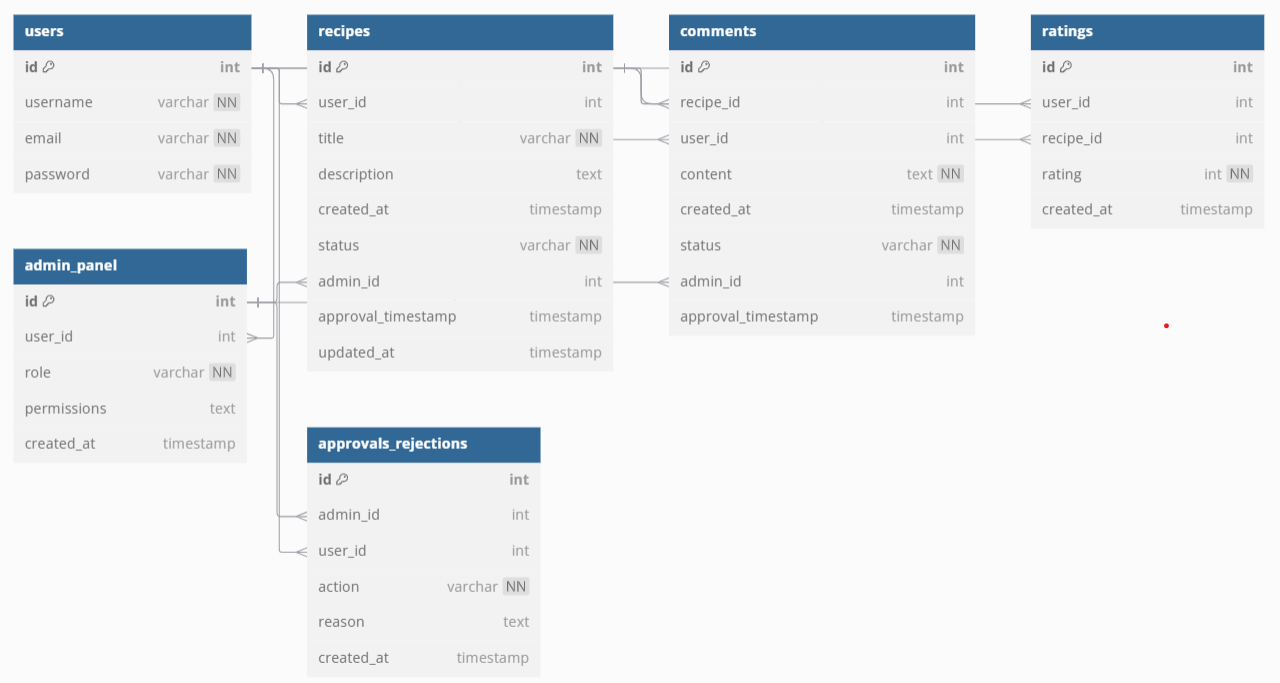
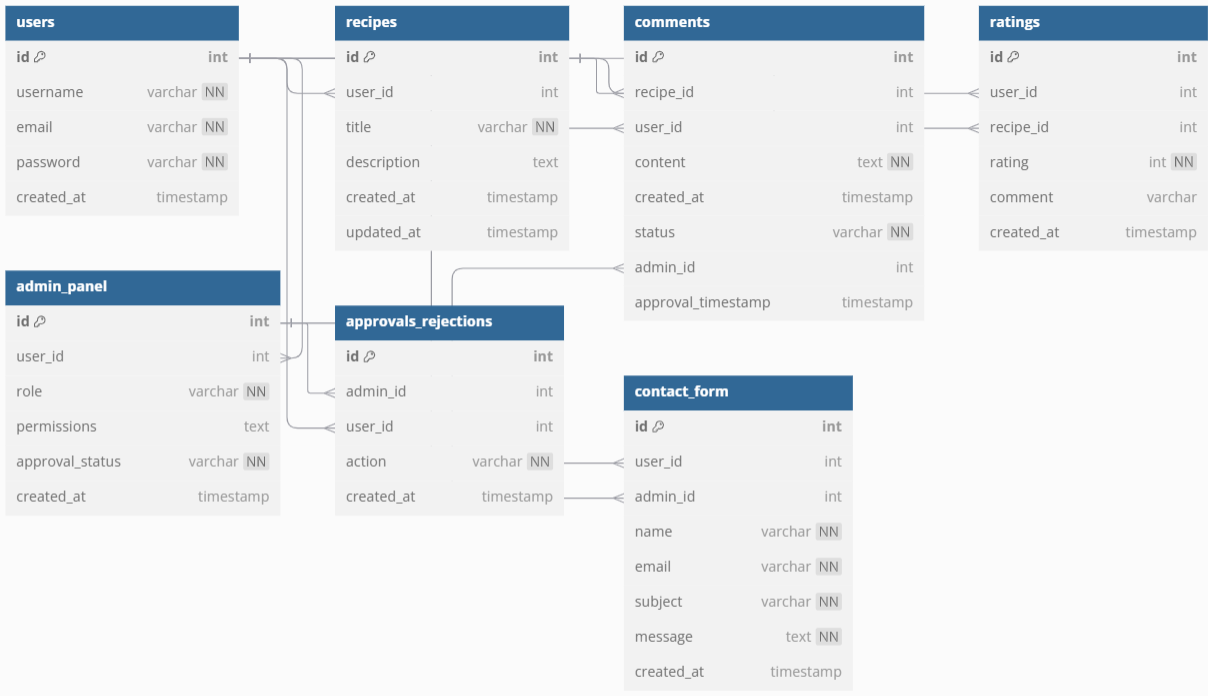
add images to README images. Update README.md

diff --git a/templates/base.html b/templates/base.html
@@ -167,7 +167,9 @@
                 text: "Do you really want to delete this recipe? This action cannot be undone.",
                 icon: "warning",
                 showCancelButton: true,
+                confirmButtonColor:'#74c37f',
                 confirmButtonText: "Yes, delete it!",
+                cancelButtonColor: '#fe4d60',
                 cancelButtonText: "Cancel",
                 reverseButtons: true
             }).then((result) => {
@@ -177,6 +179,7 @@
                         title: "Deleted!",
                         text: "Your recipe has been successfully deleted.",
                         icon: "success",
+                        confirmButtonColor:'#74c37f',
                         confirmButtonText: "OK"
                     }).then(() => {
                         this.submit(); // Submit the form programmatically

diff --git a/README.md b/README.md
@@ -107,32 +107,138 @@ Admin | receive and read Contact form.
 
 ## ERD diagram 
 <img src="readMe images\diagramma.png"><br>
-<li><strong>User:</strong> Fields: id, username, email, password, created_at<br>
-<strong>Description:</strong> Stores user information including their login credentials and registration timestamp.</li>
-<li><strong>Recipes:</strong> Fields: id, user_id, title, description, created_at, updated_at <br>
-<strong>Description:</strong> Contains details of recipes submitted by users. user_id links to the user who submitted the recipe. updated_at tracks the last modification time.</li>
-<li><strong>Comments:</strong> Fields: id, recipe_id, user_id, content, created_at, status, admin_id, approval_timestamp<br>
-<strong>Description:</strong> Holds comments made on recipes. status indicates whether a comment is pending, approved, or rejected. admin_id links to the admin who approved or rejected the comment, and approval_timestamp records the time of the action.</li>
-<li><strong>Rating:</strong> Fields: id, user_id, recipe_id, rating, comment, created_at<br>
-<strong>Description:</strong>Stores user ratings for recipes. rating is an integer between 1 and 5. Optionally, users can leave a comment along with their rating.</li>
-<li><strong>Admin Panel</strong> Fields: id, user_id, role, permissions, approval_status, created_at <br>
-<strong>Description:</strong> Manages admin roles and permissions. approval_status tracks the status of various actions (pending, approved, rejected).</li>
-<li><strong>Approvals/Rejections</strong>Fields: id, admin_id, user_id, action, reason, created_at<br>
-<strong>Description:</strong>Logs actions taken by admins regarding approvals and rejections. Includes the reason for the action and the created_at timestamp.
+<li><strong>Users</strong><br> <strong>Fields:</strong> id, username, email, password, created_at<br> <strong>Description:</strong> Stores user information including their login credentials and registration timestamp.<br> <strong>Relationships:</strong><br>
+One-to-Many: One user can submit multiple recipes.<br>
+One-to-Many: One user can post multiple comments.<br>
+One-to-Many: One user can rate multiple recipes.<br>
+One-to-One: One user can have one admin role.<br>
+One-to-Many: One user can submit multiple contact form entries.<br>
+One-to-Many: One user can have multiple actions taken by admins. </li><br>
+<li><strong>Recipes:</strong> <br> <strong>Fields:</strong> id, user_id, title, description, created_at, updated_at<br><strong>Description:</strong> Contains details of recipes submitted by users. user_id links to the user who submitted the recipe. updated_at tracks the last modification time.<br><strong>Relationships:</strong><br>
+Many-to-One: Many recipes can be submitted by one user.
+One-to-Many: One recipe can have multiple comments.<br>
+One-to-Many: One recipe can have multiple ratings. </li><br>
+<li><strong>Comments</strong><br> <strong>Fields:</strong> id, recipe_id, user_id, content, created_at, status, admin_id, approval_timestamp<br> <strong>Description:</strong> Holds comments made on recipes. status indicates whether a comment is pending, approved, or rejected. admin_id links to the admin who approved or rejected the comment, and approval_timestamp records the time of the action.<br> <strong>Relationships:</strong><br>
+Many-to-One: Many comments can be made by one user.<br>
+Many-to-One: Many comments can be made on one recipe.<br>
+Many-to-One: Many comments can be approved or rejected by one admin.</li><br>
+<li><strong>Ratings</strong><br> <strong>Fields:</strong> id, user_id, recipe_id, rating, comment, created_at<br> <strong>Description:</strong> Stores user ratings for recipes. rating is an integer between 1 and 5. Optionally, users can leave a comment along with their rating.<br> <strong>Relationships:</strong><br>
+Many-to-One: Many ratings can be given by one user.<br>
+Many-to-One: Many ratings can be given to one recipe. </li><br>
+<li><strong>Admin Panel</strong><br> <strong>Fields:</strong> id, user_id, role, permissions, approval_status, created_at<br> <strong>Description:</strong> Manages admin roles and permissions. approval_status tracks the status of various actions (pending, approved, rejected).<br> <strong>Relationships:</strong><br>
+One-to-One: One admin role can be assigned to one user.<br>
+One-to-Many: One admin can approve or reject multiple comments.<br>
+One-to-Many: One admin can handle multiple contact form entries.<br>
+One-to-Many: One admin can perform multiple approvals or rejections. </li><br>
+<li><strong>Approvals/Rejections</strong><br> <strong>Fields:</strong> id, admin_id, user_id, action, created_at<br> <strong>Description:</strong> Logs actions taken by admins regarding approvals and rejections and the created_at timestamp. <br> <strong>Relationships:</strong><br> Many-to-One: One admin can perform multiple approvals or rejections.<br>
+Many-to-One: Many actions can be taken for one user.</li><br>
+<li><strong>Contact Form</strong><br> <strong>Fields:</strong> id, user_id, admin_id, name, email, subject, message, created_at<br> <strong>Description:</strong> Stores information submitted through the contact form. Includes the user's ID, admin's ID handling the inquiry, user's name, email address, subject of the message, the message content, and the timestamp when the form was submitted.<br><strong>Relationships:</strong><br> 
+Many-to-One: Many contact form entries can be handled by one admin.<br>
+Many-to-One: Many contact form entries can be submitted by one user.</li><br>
 
 ## Testing
 ### Testing Using Validators
 Upon completion of the writing process, developer used
-[W3C MarkUp Validation Service](https://validator.w3.org/), and [PEP8 online](http://pep8online.com/) to check the validity of the code. Code passed the tests with some errors that cannot be fixed. For example, too long lines that cannot be shortened or split in two.
+[W3C MarkUp Validation Service](https://validator.w3.org/), <img src="readMe images\validator.w3.png">
+and [PEP8 online](http://pep8online.com/) to check the validity of the code. Code passed the tests with some errors that cannot be fixed. For example, too long lines that cannot be shortened or split in two.
 
 Website was also tested using [Lighhouse](https://developers.google.com/web/tools/lighthouse). The following reports were generated on home and products pages:
-![lighthouse-report](staticfiles\images\lighthouse.png)
+<img src="readMe images/lighthouse.png">
+<img src="readMe images/addrecipe.png">
 
-![lighthouse-report](static\images\addrecipe.png)
+### Manual Testing
+The website was tested manually on both large and small screens during development. This included testing navigation, responsiveness across different screen sizes, database operations (Create, Read, Update, Delete), and overall application functionality.
 
+### Client Stories Testing
+The website was tested against the client stories to ensure all user requirements and expectations were met.
+
+### Test Cases
+Test Cases
+Here's a list of some test cases performed for the recipe blog (just a part of them):
+
+1.A user can register an account with a unique username - Pass;<br>
+2.A user cannot register an account with a username that already exists in the database - Pass;<br>
+3.Registered user can log in and log out - Pass;<br>
+4.User can see a list of recipes - Pass;<br>
+5.User can go to a recipe page and see its details, including comments and rating - Pass;<br>
+6.Logged-in user can post comments and rate recipes - Pass;<br>
+7.Comments appear after admin`s approval are associated with the correct recipe - Pass;<br>
+8.Logged-in user can see own added recipes into My recipes - Pass;<br>
+9.Logged-in user can see status of recipes - Pass;<br>
+10.Logged-in user can edit and delete own recipes - Pass;<br>
+11.Admin can approve or reject comments - Pass;<br>
+12.Admin can add, update, and delete recipes through the website - Pass;<br>
+13.Admin can manage user roles and permissions - Pass;<br>
+14.All User can search for recipes using keywords - Pass;<br>
+15.User can send a message using the contact form - Pass;<br>
+16.Admin receives and can read contact form messages - Pass;<br>
+17.All links are valid and redirect to the proper page - Pass.<br>
+
+### Testing on Different Browsers and Devices
+The website was tested and proved to be issue-free on the following browsers:
+<li> Chrome</li>
+<li> Edge</li>
+<li> Firefox</li>
+<li> Safari</li>
+
+### Bugs and fixes
+<li>Comments didn`t show up after Admin approved them. I add status field ('approved', 'pending', 'rejected').Updated logic in views and templates, to show just approved comments.
+<li>The pop-up windows were not displaying correctly when the user wanted to delete a recipe. I added JavaScript to the base.html file to handle the pop-up functionality and used SweetAlert2 for better styling and UX
+<li>Recipes were visible in the blog even when their status was pending and they hadn't been approved by the admin. I added a status field to track approval, updated the approval logic, and updated views and templates to show only approved recipes.
+<li>At the end of the project background image were not displayed correctly. i veryfied the correct path, ensured the image were in the correct directorie, and ran collectstatic command to gather static files.Cleared browsing data.<li>
+<li>Many bugs were resolved using Django's debug mode. This feature made it easy to identify the causes of errors and address them. For more complex issues, I could quickly find solutions by searching for the exact error messages.<li>
+
+## Cloning This Project
+To create a clone, follow these steps:<br>
+<li>Log in to GitHub and navigate to the repository.</li><br>
+<li>Click on the "Code" button.</li><br>
+<li>Select "Open with GitHub Desktop" and follow the prompts in the GitHub Desktop Application, or follow GitHub's instructions for cloning the repository using other methods.</li><br>
+
+### Working with Your Local Clone
+<li>Install the requirements from "requirements.txt" using pip install.</li><br>
+
+<li>Build a new database with the commands python3 manage.py makemigrations and python3 manage.py migrate.</li><br>
+<li>Create a new superuser by running python3 manage.py createsuperuser and follow the prompts.</li><br>
+<li>Start the Django application using python3 manage.py runserver.</li><br>
+<li>Log in using your superuser credentials by appending /admin to the URL.</li><br>
+<li>From the admin panel, you can easily create, read, update, and delete records, including recipes, users, and email lists.</li><br>
 
 ## Deployment
-The project was initially created in Gitpod and deployed on Heroku. Afterward, the project was migrated to VS Code for further development and maintenance.
+The project was initially created in Gitpod and deployed on Heroku. Afterward, the project was migrated to VS Code for further development and maintenance.<br>
+To deploy this application on Heroku, we are required to have a requirements.txt file as well as a Procfile. These files will allow Heroku understand what dependencies are required, as well as tell Heroku which file to run, in order to launch the web application.<br>
+<li>Install production-ready webserver for Heroku</li>
+    
+    bash
+    pip3 install gunicorn~=20.1
+    
+<li>Add to requirements file</li>
+   
+    bash
+    pip freeze --local>requirements.txt
+   
+<li>Create a Procfile manually in the root directory. In Procfile write<br>
+  
+     web: gunicorn headchef.wsgi
+this is the command Heroku will use to start the server<br>
+<li>In settings.py file adjust ALLOWED_HOSTS by adding<br>
+   
+    ,'.herokuapp.com']
+
+<li>Save and commit changes to GitHub.</li>
+<li>Open Heroku and login or sign up.</li>
+<li>Create a new app and select the desired region.</li>
+<li>Connect Github to Heroku via the dashboard link "Deploy". Go to "Deployment method" and choose "GitHub", find your repository name listed and select it.</li>
+<li>Once connected to GitHub repository, navigate to the "Settings" tab and reveal "Config Vars"</li>
+<li>Create environment variables with your data (ensure names match those in settings.py):</li>
+DATABASE_URL<br>
+SECRET_KEY<br>
+CLOUDINARY_API_KEY<br>
+CLOUNINARY_API_SECRET<br>
+CLOUDINARY_CLOUD_NAME<br>
+<li>Disable "Automatic deploys" and deploy manually.</li>
+<li>After couple minutes it should show "Your app was successfully deployed"</li>
+<li>Open your newly created app</li>
+
 
 ## Learning Resources
 
@@ -142,3 +248,4 @@ The project was initially created in Gitpod and deployed on Heroku. Afterward, t
 <li>BBC recipes (recipes and pictures has been copied)</li>
 <li> The base.html file has been built on the foundation of the 'I think I can blog!' project
 <li>SheCodes and Udemy
+<li>Neverless my mentor Spencer Barriball
